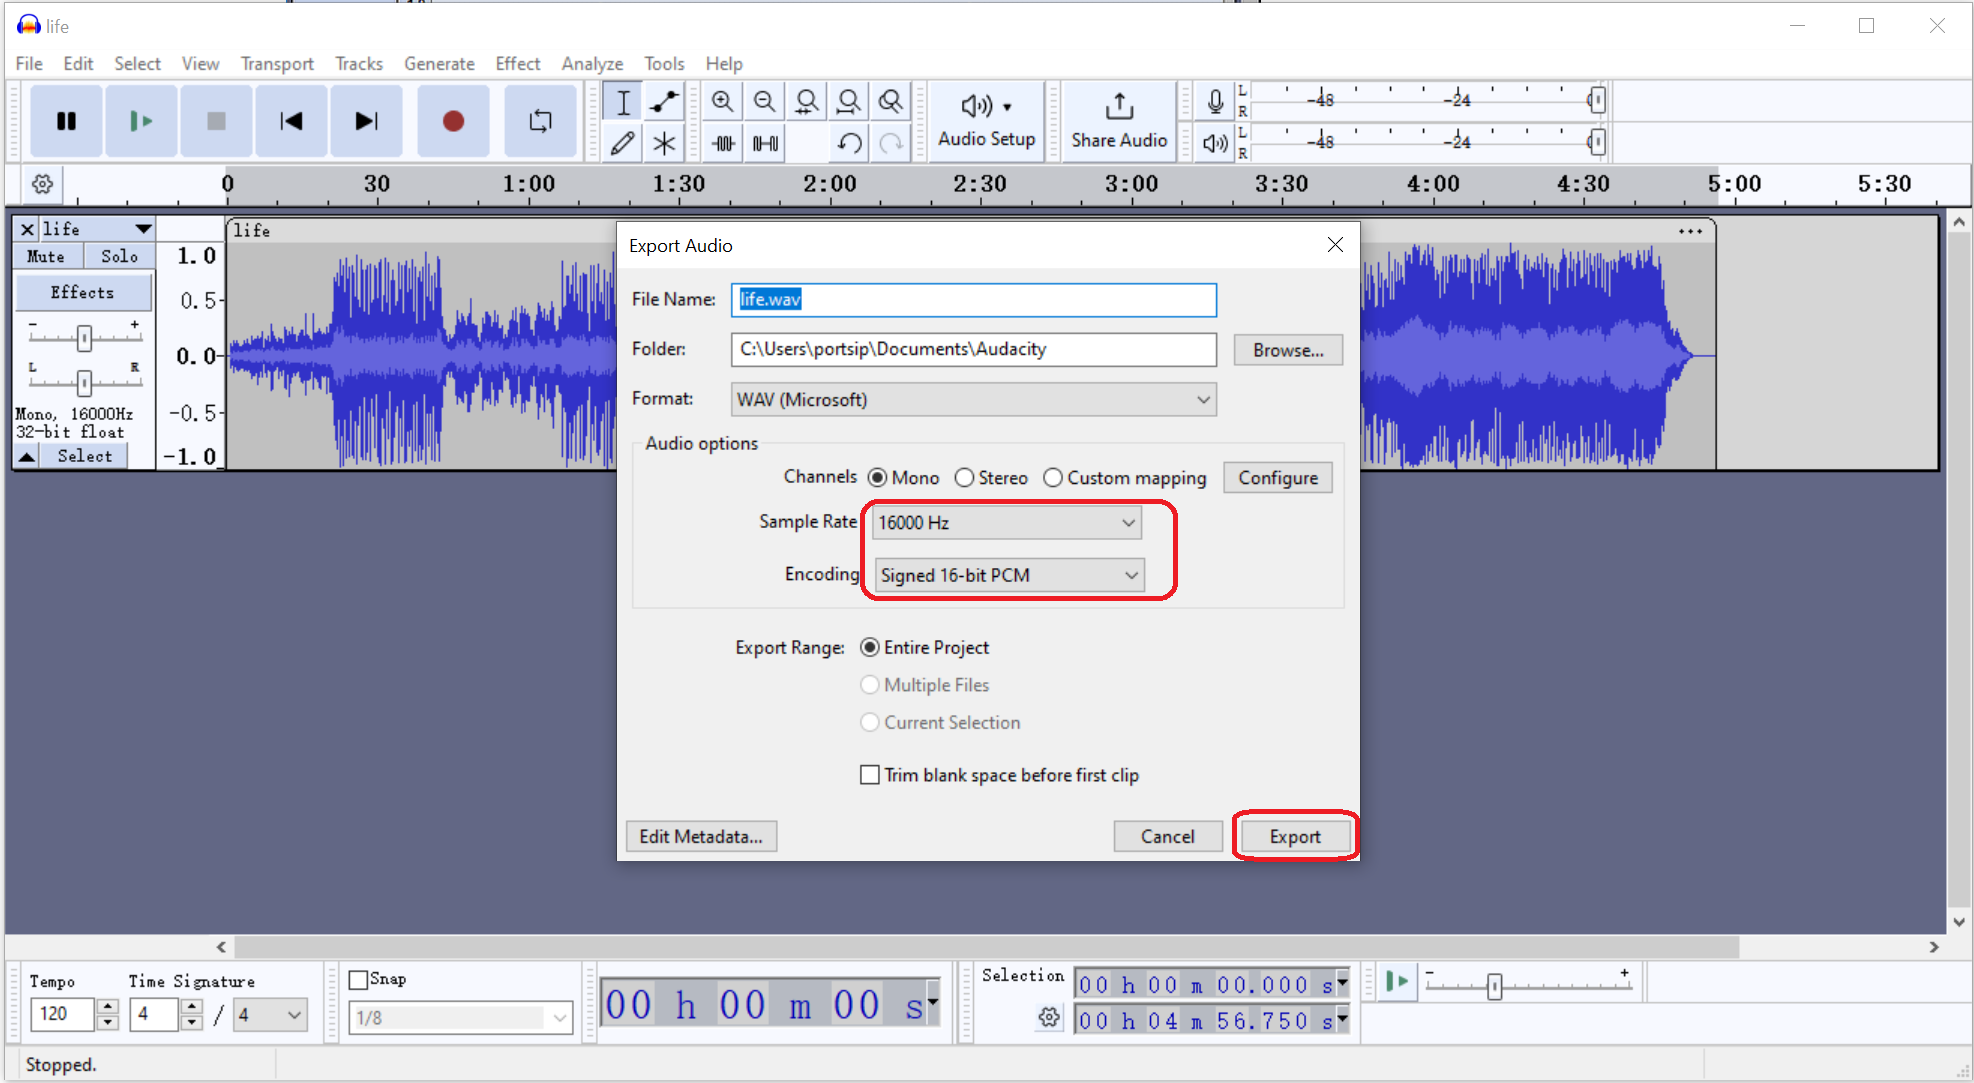
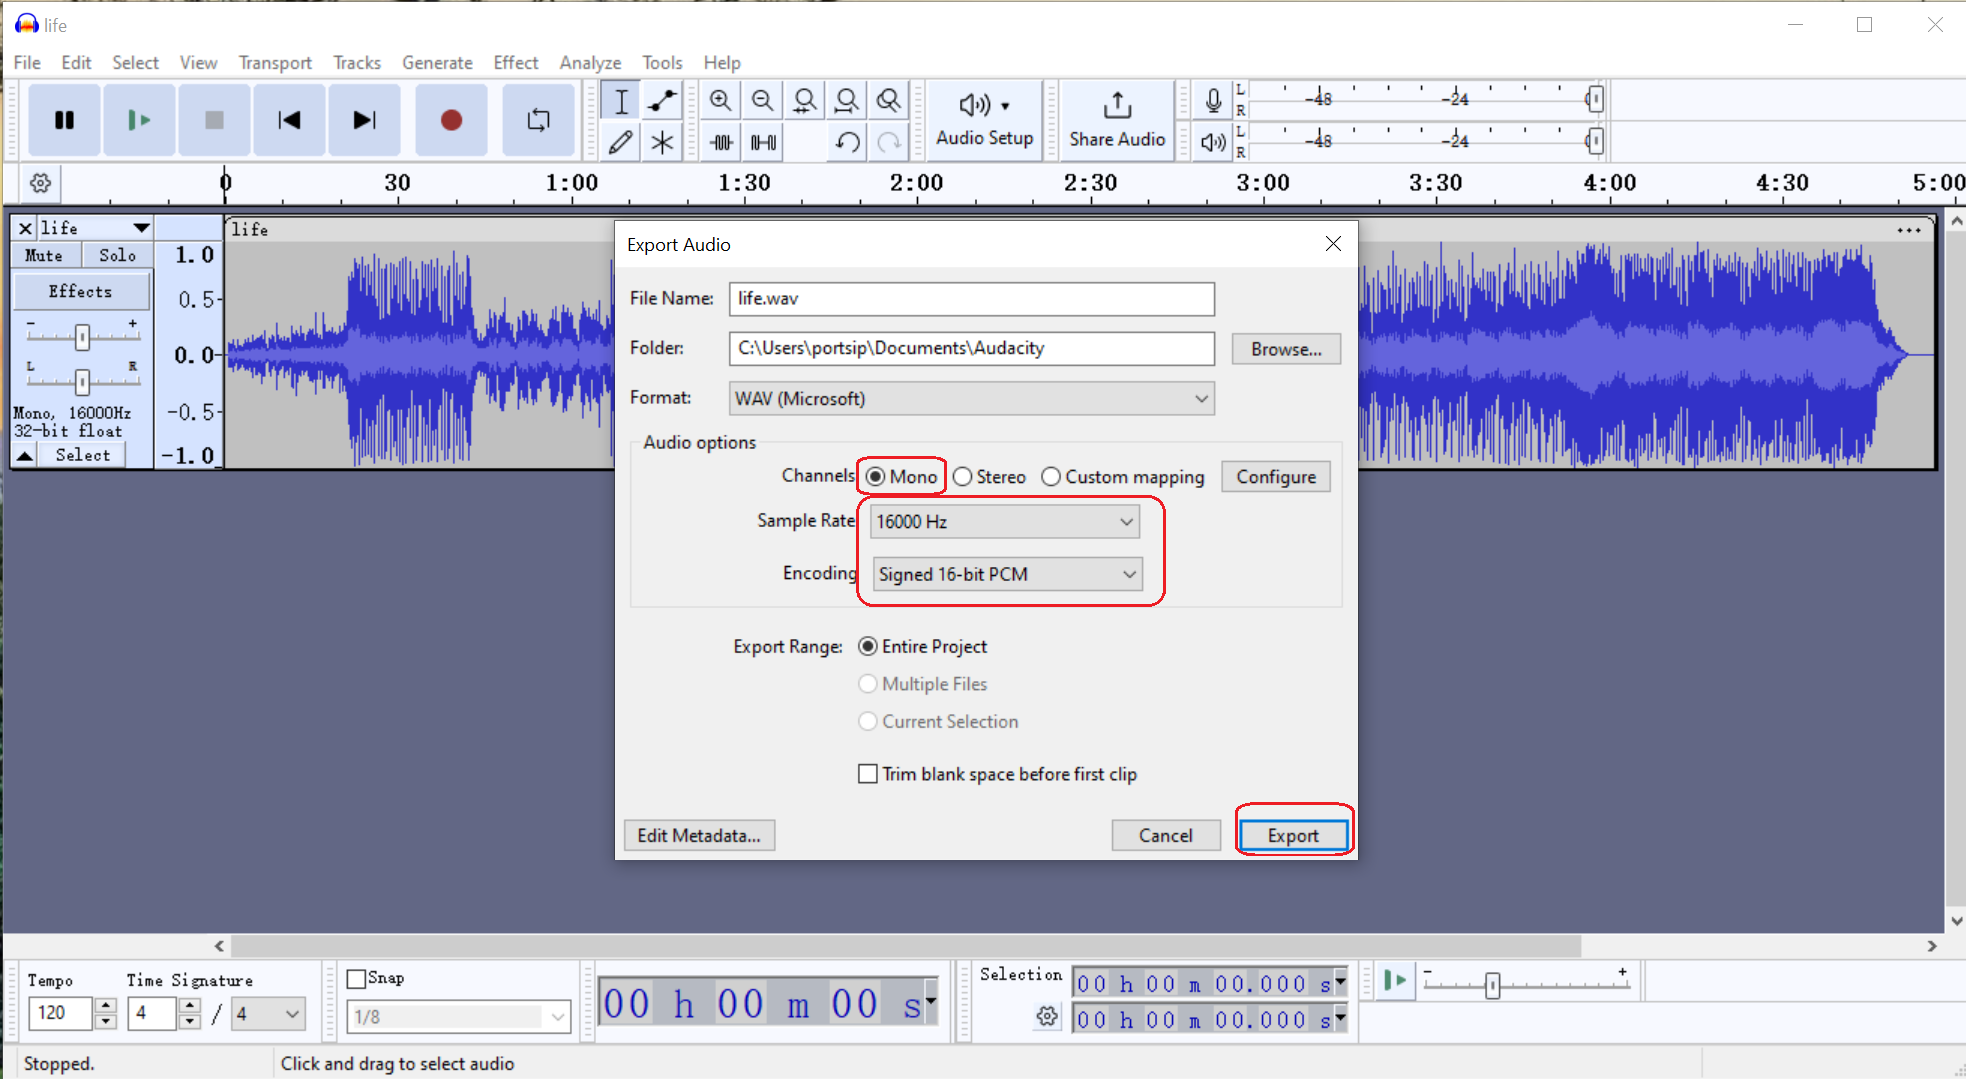
GITBOOK-1846: No subject

diff --git a/faq/what-file-format-is-required-for-portsip-pbx-prompt.md b/faq/what-file-format-is-required-for-portsip-pbx-prompt.md
@@ -17,11 +17,15 @@ To convert an unsupported audio file for the PortSIP PBX prompt file, you can fo
 1. Download and install the free [Audacity ](https://www.audacityteam.org/)audio editor software.
 2. Launch [Audacity](https://www.audacityteam.org/), navigate to the menu **File >  Open**. Choose the file you wish to convert.
 3. Once the file is open, click the menu **File > Export Audio**.
-4. In the **Export Audio** window, under the **Audio options** section, select either 16000 Hz, 32000 Hz, or 48000 Hz for the **Sample Rate**.
-5. For the **Encoding** option, choose **Signed 16-bit PCM**.
-6. Finally, click the **Export** button to save your converted WAV file.
+4. In the **Export Audio** window, under the **Audio options** section：
+   * Choose the **Mono** for the **Channels** option.
+   * Select either 16000 Hz, 32000 Hz, or 48000 Hz for the **Sample Rate**.
+   * For the **Encoding** option, choose **Signed 16-bit PCM**.
+5. Finally, click the **Export** button to save your converted WAV file.
 
 This process will ensure your audio file is compatible with the PortSIP PBX system.
 
 <figure><img src="../.gitbook/assets/portsip-pbx-convert-wav-file.png" alt=""><figcaption></figcaption></figure>
+
+
 
